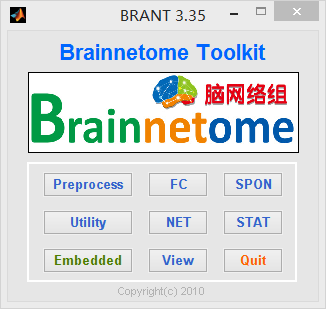
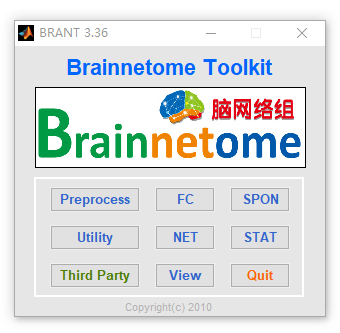
Update Version

diff --git a/source/conf.py b/source/conf.py
@@ -63,9 +63,9 @@ author = 'Brainnetome'
 # built documents.
 #
 # The short X.Y version.
-version = '3.35'
+version = '3.36'
 # The full version, including alpha/beta/rc tags.
-release = '3.35'
+release = '3.36'
 
 # The language for content autogenerated by Sphinx. Refer to documentation
 # for a list of supported languages.
